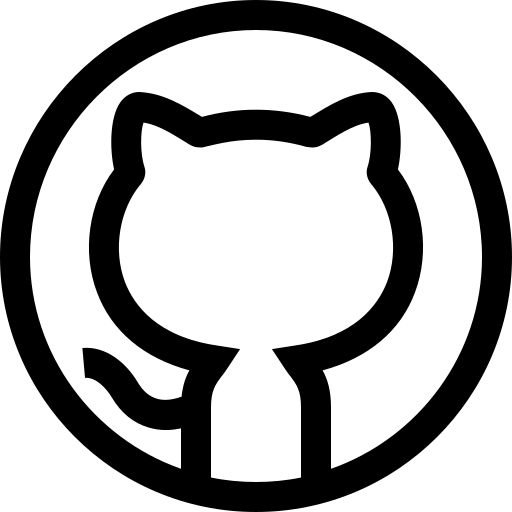
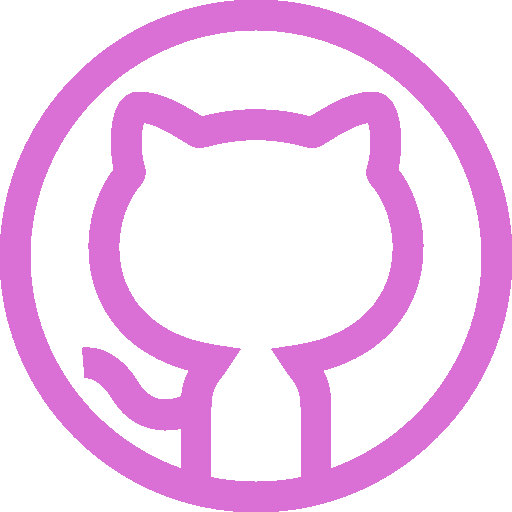
Added @media queries and re-coloured socials

diff --git a/07.01-206-divs-flexbox-starter/css/main.css b/07.01-206-divs-flexbox-starter/css/main.css
@@ -151,7 +151,6 @@ span {
 
 .flex-items {   
     display: flex;
-    flex-basis: 30%;
     justify-content: center;
     align-items: center;
     line-height: 1.5em;
@@ -159,13 +158,8 @@ span {
     text-align: center;
 }
 
-#div-2, #div-3 {
-    border-left: 0.5px solid orchid;
-    padding-left: 1em;
-}
-
 footer {
-    background-color:  orchid;
+    border-top: 1px solid orchid;
     margin-top: 2em;
 }
 
@@ -176,6 +170,7 @@ footer ul li {
 footer ul li img {
     height: 1.5em;
     padding: 0px 5px 0px 5px;
+}
 
 
 
@@ -258,6 +253,18 @@ footer ul li img {
    These examples override the primary ('mobile first') styles.
    Modify as content requires.
    ========================================================================== */
+
+@media (min-width: 1200px) {
+    .flex-items {
+        flex-basis: 30%;
+    }
+
+    #div-2, #div-3 {
+        border-left: 1px solid orchid;
+        padding-left: 1em;
+    }
+}
+
 
 @media print,
        (-webkit-min-device-pixel-ratio: 1.25),
